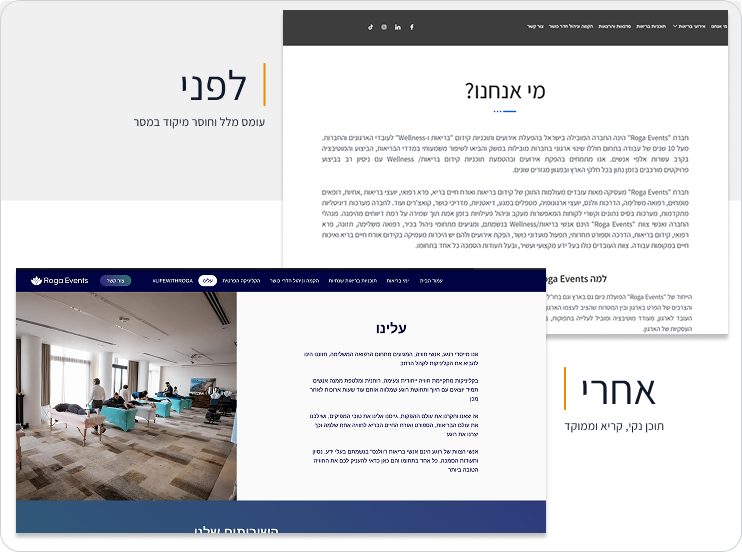
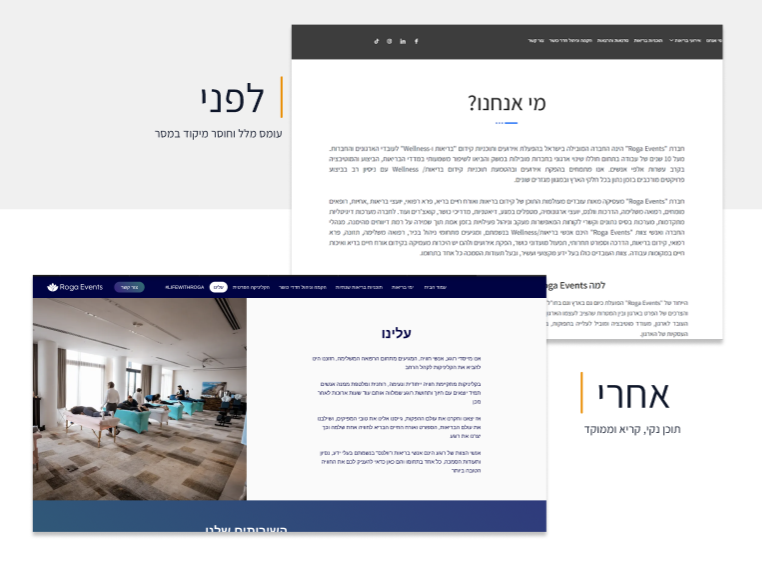
Enhance BusinessContentSection by adding rounded corners and border to the image for improved styling. Update image class for better visual consistency and responsiveness.

diff --git a/components/sections/BusinessContentSection.tsx b/components/sections/BusinessContentSection.tsx
@@ -40,11 +40,11 @@ export function BusinessContentSection() {
           <div className="grid w-full grid-cols-1 items-center gap-12 sm:max-w-[370px] sm:justify-items-center lg:max-w-none lg:grid-cols-[minmax(0,742px)_minmax(280px,628px)] lg:items-start lg:justify-center lg:gap-x-8 lg:gap-y-12 xl:gap-x-20">
 
             <div className="relative order-2 w-full min-w-0 max-w-[742px] justify-self-center lg:justify-self-end">
-              <div className="relative aspect-[370/282] w-full min-h-[220px] overflow-hidden sm:min-h-[260px] lg:aspect-[742/552] lg:min-h-0">
+              <div className="relative aspect-[370/282] w-full min-h-[220px] overflow-hidden rounded-[30px] sm:min-h-[260px] lg:aspect-[742/552] lg:min-h-0">
                 <img
                   src={figma.beforeAfterComposite}
                   alt="לפני ואחרי — עומס מלל וחוסר מיקוד במסר לעומת תוכן נקי, קריא וממוקד"
-                  className="w-full object-cover"
+                  className="w-full rounded-[30px] border border-[#777] object-cover"
                   loading="lazy"
                   decoding="async"
                 />
